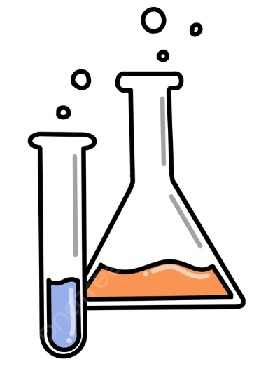
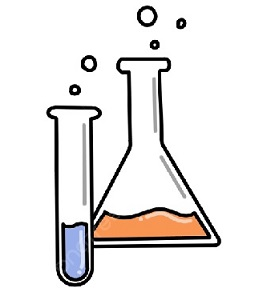
se agrega una imagen chemical.jpg

diff --git a/index2.html b/index2.html
@@ -1,0 +1,318 @@
+<!DOCTYPE html>
+<html lang="en">
+<head>
+   <meta charset="UTF-8">
+   <meta name="viewport" content="width=device-width, initial-scale=1.0">
+   <link rel="stylesheet" href="css/normalize.css">
+   <title>rd portfolio</title>
+   <style>
+   /*                                                                               main settings */   
+   *                                            {
+      margin            : 0;
+      padding           : 0;
+      box-sizing        : border-box;
+      font-family       : 'Arial Narrow', Arial, sans-serif;
+      background-color  : #444444;
+      color             : #d6d6dc;}
+   :root                                        {
+         --white        :#f9f9f9;
+         --white-       :#e5e5e5;
+         --white--      :#f5f7f4;
+         --green        :#229395;
+         --green-light  :#7acbcd;
+         --black        :#36383f;
+         --grey         :#444444;
+         --grey2        :#c8c3bf; 
+         --grey3        :#bebfba;     }
+   html, body, .main-container                  {
+      height      : 100%;}
+   .main-container                              {
+      display              : grid;
+      grid-template-columns: 1fr;
+      grid-template-rows   : 1fr 2fr 5fr 1fr;} 
+   main                                         {
+      
+      background-color  : #444444;
+      padding           : 20px; } 
+   header                                       {
+      background-color  : --grey2;
+      color             : #d6d6dc;}
+   footer>p                                     {
+      background-color: #6b9d06;}
+   header                                       {
+      text-align  : left;}
+   /*                                                                               image and personal */
+   .rdimg                                       {
+      width    : auto;
+      display: inline;
+      
+      justify-content: center;
+      padding  : 10px;   
+      background-color: #bebfba;}
+   .rdimg>h3                                    {
+      float: right;
+      background-color: #bebfba;
+      font-weight: normal;
+      font-size: 1.5rem;
+      color: var(--white);
+      line-height: 110px;   }
+   /* .rdimg                                    {
+
+         width    : 90px;
+         position : absolute;
+         top      : 95px;
+         left     : 210px;      } */
+   a                                            {
+         text-decoration   : none;      }
+   ul                                           {
+         list-style  : none;      }
+   .header                                      {
+         background-color  : var(--grey2);
+         box-shadow        : 1px 1px 5px 0px var(--grey);
+         position          : sticky;
+         top               : 0;
+         width             : 100%;     
+         padding-left      : 5px;
+         height            : 75px; }
+   .logo                                        {
+      display     : inline-block ;
+      color       : var(--white);
+      font-size   : 39px;
+      margin-left : 15px;
+      line-height : 75px;}
+   .sup                                         {
+      background-color  : var(--grey2);
+      font-size         : 21px;
+      font-style        : italic;
+      color             : #eb7201;}
+   .nav                                         {
+         width             : 100%;
+         height            : 100%;
+         position          : fixed;
+         background-color  : var(--green);
+         overflow          : hidden;
+         max-height        : 0;
+         transition        : max-height .5s ease-out;      }
+   .menu a                                      {
+         display  : block;
+         padding  : 30px;
+         color    : var(--white);      }
+   .menu a:hover                                {
+         background-color: #6e863d;      }
+   .hamb                                        {
+         cursor   : pointer;
+         float    : right;
+         padding  : 40px 20px;      }
+   .hamb-line                                   {
+         background  : var(--white);
+         display     : block;
+         height      : 2px;
+         position    : relative;
+         width       : 24px;      }
+   .hamb-line::before, .hamb-line::after        {
+         background  : var(--white);
+         content     : '';
+         display     : block;
+         height      : 100%;
+         position    : absolute;
+         transition  : all .2s ease-out;
+         width       : 100%;      }
+   .hamb-line::before                           {
+         top   :5px;      }
+   .hamb-line::after                            {
+         top   : -5px;      }
+   .side-menu                                   {
+         display  : none;      }
+   .side-menu:checked ~ nav                     {
+         max-height  : 27%;      }
+   .side-menu:checked ~ .hamb .hamb-line        {
+         background  : transparent;      }
+   .side-menu:checked ~ .hamb .hamb-line::before{
+         transform   : rotate(-45deg);
+         top         : 0;      }
+   .side-menu:checked ~ .hamb .hamb-line::after {
+         transform   : rotate(45deg) ;
+         top         : 0;      }
+   .main                                        {
+      display  : grid;
+      /* overflow : hidden; */
+      position : relative;         }
+   .cards                                       {
+      border-radius     : 3px;
+      padding           : 15px;
+      background-color  : white;
+      text-align        : center;   }
+   .cards img                                   {
+         border-radius: 3px;         }
+   h4                                           {
+      background  : transparent; 
+      position    : absolute;
+      color       : orange;
+      bottom      : 5px ;
+      right       : 3px  ;
+      z-index     : 1;   }
+   img                                          {
+         margin-top: 0px;   }
+   
+   
+   @media only screen and (max-width: 300px) {  /* Extra extra small (300px and down)                               */ 
+      .main                            {                                  
+         grid-template-columns   : 1fr;
+         grid-template-rows      : 120px 120px 120px 120px 120px 120px;
+         width                   : 100%;
+         height                  : 150px;
+         gap                     : 10px;}
+      .cards                           { 
+         position          : relative;} 
+      .cards img                       {
+         width             : 80%;
+         height            : 80%;
+         object-fit        : cover;}
+      h4                               {
+         font-size   : 1.5rem;}} 
+   @media only screen and (min-width: 301px) {  /* Extra small devices (phones, 600px and down)                     */ 
+      .main       {                                  
+        
+         grid-template-columns   : 1fr 1fr;
+         grid-template-rows      : 200px 200px 200px 200px;
+         width                   : 100%;
+         height                  : 200px;
+         gap                     : 9px;}
+      .cards                                       {
+         position : relative;}
+      .cards img                                   {
+         width       : 100%;
+         height      : 100%; 
+         object-fit  : cover}
+      h4                                           {
+         font-size   : 1.3rem;}      }
+   @media only screen and (min-width: 601px) {  /* Small devices (portrait tablets and large phones, 600px and up)  */ 
+      .main                {                                  
+         grid-template-columns: 1fr 1fr 1fr;
+         grid-template-rows   : 250px 250px 250px;
+         width                : 100%;
+         height               : 250px;
+         gap                  : 9px;}
+      .cards               {
+         position : relative;}
+      .cards img           {
+         width       : 100%;
+         height      : 100%; 
+         object-fit  : cover}
+      .nav                 {
+            max-height:none;
+            top: 0;
+            position: relative;
+            float: right;
+            width: -moz-fit-content;
+            width: fit-content;
+            background-color: transparent;  }
+      .menu li             {
+            float: left;         }
+      .menu a:hover        {
+            background-color: transparent;
+            color: #9dc352;         }
+      .hamb                {
+            display: none;}} 
+   @media only screen and (min-width: 768px) {  /* Medium devices (landscape tablets, 768px and up)                 */ 
+      .main                    {                                  
+         grid-template-columns: 1fr 1fr 1fr;
+         grid-template-rows   : 150px 150px;
+         width                : 100%;
+         height               : 150px;
+         gap                  : 5px;}
+      .cards                   {
+         position: relative;}
+      .cards img               {
+         width       : 100%;
+         height      : 100%; 
+         object-fit  : cover} }
+   @media only screen and (min-width: 992px) {  /* Large devices (laptops/desktops, 992px and up)                   */ 
+      .main   
+                      {                                  
+         grid-template-columns: 1fr 1fr 1fr 1fr 1fr;
+         grid-template-rows   : 150px 150px 150px;
+         width                : 100%;
+         height               : 150px;
+         gap                  : 5px;}
+      .cards                  {
+         position : relative;}
+      .cards img              {
+            width       : 100%;
+            height      : 100%; 
+            object-fit  : cover}         }
+   @media only screen and (min-width: 1200px){  /* Extra large devices (large laptops and desktops, 1200px and up)  */ 
+      .main                   {                                  
+         grid-template-columns   : 1fr 1fr 1fr 1fr 1fr 1fr;
+         grid-template-rows      : 150px 150px;
+         width                   : 100%;
+         height                  : 150px;
+         gap                     : 5px;}
+      .cards                  {
+         position : relative;}
+      .cards img              {
+            width       : 100%;
+            height      : 100%; 
+            object-fit  : cover}   } 
+   </style>
+</head>
+
+<body>
+   <div class="main-container">
+      <header class="header">
+         <a href="https://rdstl.github.io/" class="logo">roland distel <sup class="sup">experiences <strong class="sup">+</strong></sup></a>
+         <input type="checkbox" id="side-menu" class="side-menu" name="side-menu">
+         <label for="side-menu" class="hamb"><span class="hamb-line"></span></label>
+         <nav class="nav" >
+            <ul class="menu" >
+               <li><a href="#">Services</a></li>
+               <li><a href="#">Projects</a></li>
+               <li><a href="#">About</a></li>
+            </ul>
+         </nav>
+         
+      </header>
+     
+      <!-- <section class="rdimg">
+         <img src="./img/RolandoDistel7100px.jpg" alt="rd">
+         <h3>"As a web developer, I aspire to create better, more engaging and innovative experiences."</h3>
+      </section>  -->
+
+      <h2 >Projects</h2>
+      <main class="main">
+        
+         <div class="cards card1">
+            <h4>metalwork</h4>
+            <a href="./projects/metalwork/index.html"><img src="./img/mtlwrk.jpg" alt="mtlwrk"></a> 
+         </div>
+         <div class="cards card2">
+            <h4>grupo unión</h4>
+            <a href="./projects/grupoUnion/index.html"><img src="./img/grupounion.jpg" alt="grupounion"></a>
+         </div>
+         <div class="cards card3">
+            <h4>auctions</h4>
+            <img src="./img/auctions.jpg" alt="auctions"> 
+         </div>
+         <div class="cards card4">
+            <h4>accounting</h4>
+            <img src="./img/accounting.jpg" alt="accounting">
+         </div>
+         <div class="cards card5">
+            <h4>trading</h4>
+            <img src="./img/trading.jpg" alt="trading">
+         </div> 
+         <div class="cards card6">
+            <h4>amazing</h4>
+            <a href="./projects/amazing_events/index.html"><img src="./img/amazing.jpg" alt="amazing"></a>
+         </div>
+         <div class="cards card7">
+            <h4>Water</h4>
+            <a href="./projects/amyD/myChemicalProject.html"><img src="./img/chemical.jpg" alt="amy"></a>
+         </div>
+      </main>
+      <footer>
+         <p>footer</p>
+      </footer>
+   </div>
+</body>
+</html>
